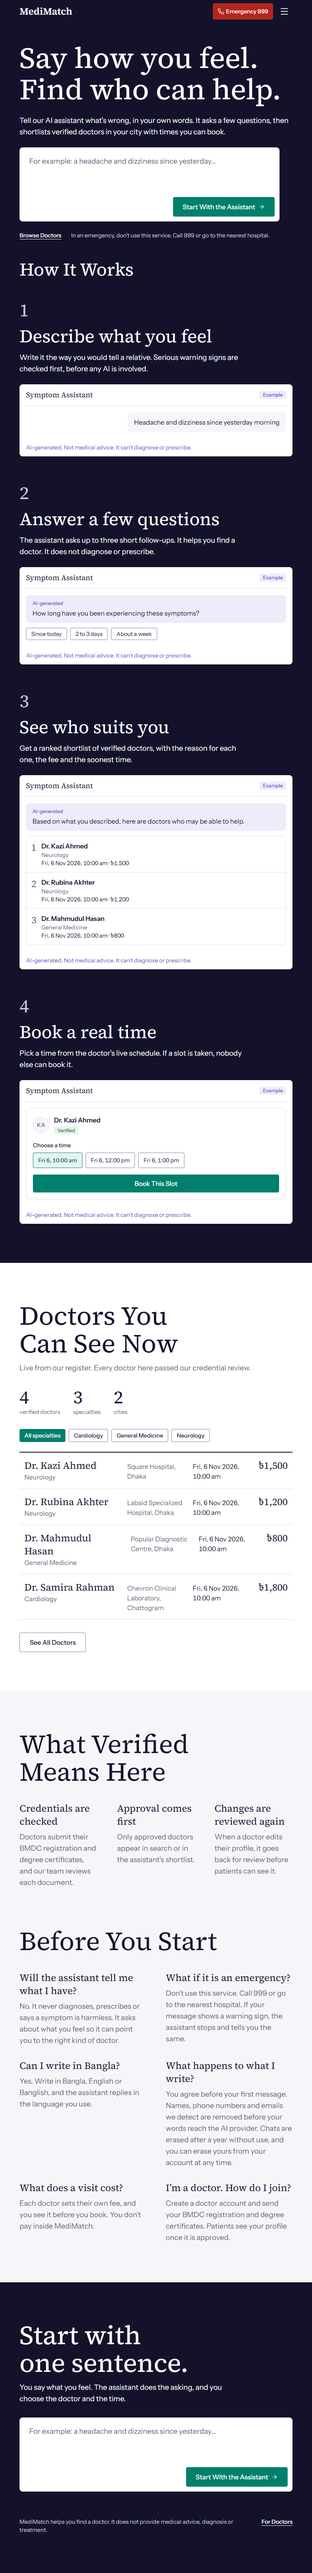
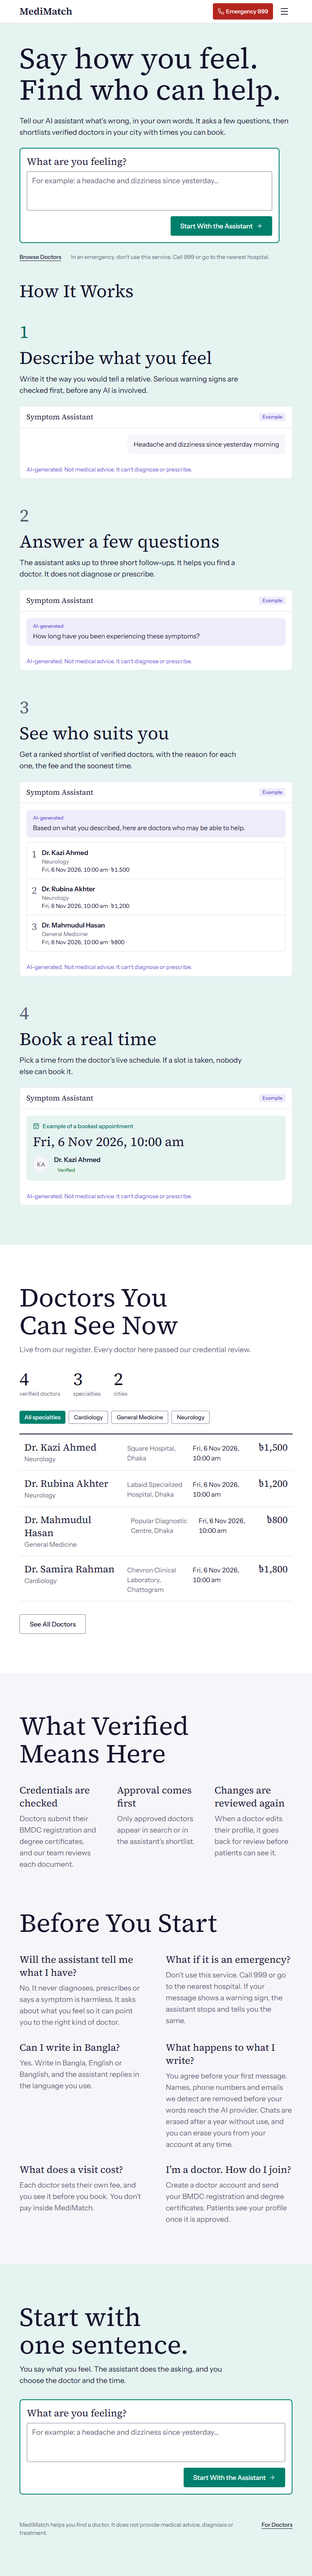
docs: record the light home page and new screenshots

diff --git a/docs/UI_REVIEW.md b/docs/UI_REVIEW.md
@@ -9,7 +9,7 @@ The review used contact sheets of the after screenshots and live scroll captures
 | Check | Result |
 |---|---|
 | Playwright, including axe, console, network and sideways scroll on every screen | 97 of 97 |
-| Vitest | 46 of 46 |
+| Vitest | 44 of 44 |
 | Type check, oxlint and production build | Pass, with 3 existing lint warnings |
 | Backend tests that need no database | 652 of 653. The other one needs local Supabase, which wasn't running |
 | Backend integration tests | Not run, because local Supabase wasn't running |
@@ -19,7 +19,7 @@ The review used contact sheets of the after screenshots and live scroll captures
 | Bug | Fix |
 |---|---|
 | Doctor onboarding lost clicks on Save and Continue. Leaving a field cleared its error, the layout moved, and the click landed on nothing. | The button keeps focus until the click finishes, in `OnboardingPage.tsx`. |
-| The sign-in panel headline ran across the photo edge. | The panel is now plain type on ink. |
+| The sign-in panel headline ran across the photo edge. | The panel now shows the promise above a real product example, on the teal tint. |
 | Search filters were cut off at tablet width. | They use two columns below `lg`. |
 | The emergency call button wasn't full width on larger screens. | It's now full width at every size. |
 | `rise-in` was defined twice in the CSS. | One definition remains. |
@@ -28,8 +28,8 @@ The review used contact sheets of the after screenshots and live scroll captures
 
 | Screen | What improved | Still weak |
 |---|---|---|
-| **Home** | The first screen is a large serif headline on ink, with a working message box. A real product panel stays fixed while the conversation plays on scroll, with live doctors and times. | The panel is mostly empty on its first step. |
-| **Sign in, register** | The photo is gone. The form sits beside a plain promise, and nothing overlaps. | The ink panel is hidden below `lg`. |
+| **Home** | The first screen is a large serif headline on the teal tint, with one clearly real message box. A real product panel stays fixed while the conversation plays on scroll, with live doctors and times. | The panel changes height between steps. |
+| **Sign in, register** | The photo is gone. The form sits beside a real product example, and nothing overlaps. | The panel is hidden below `lg`. |
 | **Not found** | Larger title. | Still a sparse screen. |
 | **Chat** | AI messages use the violet tint again. Doctor names, rank and soonest time are easier to scan, and View and Book is the primary action. | A long shortlist still fills a phone screen. |
 | **Chat consent** | Calmer without the banner. | Still plain text on an empty page. |

diff --git a/CLAUDE.md b/CLAUDE.md
@@ -197,10 +197,10 @@ npx playwright test      # Mocked API. Writes web/screenshots/after/
   - All 12 migrations are applied to the live project, and vector search is on with 7 approved doctors indexed
 - [x] **Phase 5d: Web Redesign**
   - `docs/UI_AUDIT.md` records the state before, `docs/UI_REVIEW.md` the review, and `docs/DESIGN.md` the system
-  - Ink, teal and violet tokens, Instrument Sans and Source Serif. All photographs are gone, and the Imagery section of `docs/DESIGN.md` keeps them out
-  - The home page is a split stage: `ProductStage` plays the real chat on scroll with live doctors, and a first message typed there reaches the chat
+  - Teal and violet tokens on a light palette, Instrument Sans and Source Serif. All photographs are gone, and the Imagery section of `docs/DESIGN.md` keeps them out
+  - The home page is a split stage: `ProductStage` plays the chat on scroll with live doctors and holds no inputs or buttons. The one real message box sends a first message to the chat
   - Language switch added. Most of the interface is still English, because Bangla copy needs a reviewer
-  - Tests: 46 Vitest and 97 Playwright passing on a mocked API
+  - Tests: 44 Vitest and 97 Playwright passing on a mocked API
 - [ ] **Phase 6: Mobile App & Production Deployment**
   - Flutter app for Patient and Doctor workflows
   - End-to-end integration test suite & deployment readiness
@@ -209,6 +209,7 @@ npx playwright test      # Mocked API. Writes web/screenshots/after/
 
 ## Decisions Log
 - **2026-11-05**: Replaced the navy and beige work with the teal, violet and serif system on the owner's instruction, and removed every photograph. The striking look comes from large type and the real product, never from decoration.
+- **2026-11-05**: Dropped the dark ink field on the owner's feedback, because it didn't match the rest of the site. Home and sign-in use the teal tint.
 - **2026-11-05**: The first message from the home page travels in `sessionStorage`, not the URL, so symptoms stay out of browser history and logs.
 - **2026-11-05**: Removed emoji from the emergency alert and the greeting on the owner's instruction. The wording is otherwise unchanged.
 - **2026-11-05**: Removed tracked screenshots, `docs/PLAN.md`, `docs/UI_REVIEW.md`, an empty root lockfile, and the unused `lighthouse` and `user-event` packages.

diff --git a/docs/DESIGN.md b/docs/DESIGN.md
@@ -23,12 +23,10 @@ Two references inform the structure. We borrow no colour, logo, typeface or bran
 | `--canvas` | `#F6F6FA` | Page background |
 | `--border` | `#E3E1F0` | Dividers and panel edges (decorative) |
 | `--border-control` | `#8582A0` | Boundaries of inputs and controls |
-| `--ink-field`, `--ink-raised`, `--ink-line` | `#14122B`, `#211F3D`, `#3A3859` | Ink fields on the home page and auth panel |
-| `--on-ink`, `--on-ink-muted` | `#FFFFFF`, `#C8C6D9` | Text on ink |
 | `--primary` | `#00806C` | Actions, links, focus |
 | `--primary-hover` | `#00695A` | Hover; text on `--primary-tint` |
 | `--primary-pressed` | `#005247` | Active state |
-| `--primary-tint` | `#E6F4F1` | Selected rows and days |
+| `--primary-tint` | `#E6F4F1` | Selected rows and days, and the home and sign-in fields |
 | `--ai` | `#5A4BD1` | AI-generated content only |
 | `--ai-tint` | `#EEECFB` | Background of AI content only |
 | `--danger` | `#B3261E` | Emergencies and destructive actions only |
@@ -115,6 +113,7 @@ This policy exists because irrelevant photographs were added to the product once
 - **Allowed:** (a) real product interface, (b) simple custom SVG drawings in our palette with one or two colours and a consistent stroke, used only for empty states and onboarding, (c) Lucide icons, (d) type and space.
 - Doctor avatars are initials on a tint, unless the doctor uploaded a photo.
 - The home page shows the product itself in `ProductStage`, with live data from the API, and marks it as an example.
+- `ProductStage` holds no inputs or buttons. A visitor must never mistake the example for the real message box.
 
 ## 6. Component Inventory
 
